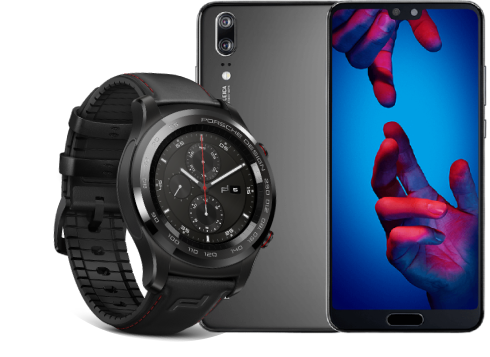
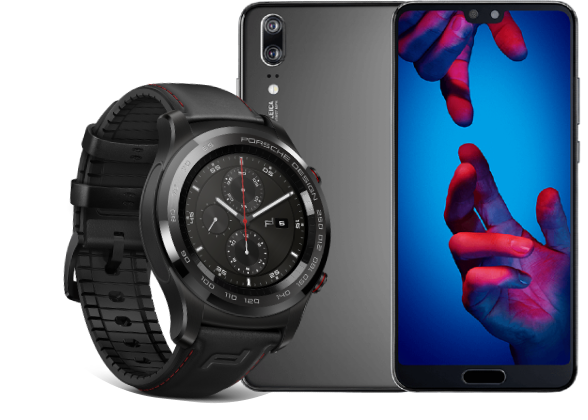
att

diff --git a/index.html b/index.html
@@ -24,8 +24,16 @@
 
     <link rel="stylesheet" href="css/style.css" />
 </head>
-
-
+<!--
+<svg>
+    <defs>
+        <clipPath id="svg-path">
+            <path d="M0 170.5C0 76.3354 76.3355 0 170.5 0L341 0L341 403.5C341 497.665 264.665 574 170.5 574H0L0 170.5Z"
+                fill="#DADADA">
+        </clipPath>
+    </defs>
+</svg>
+--->
 
 <body>
     <div class="circle"></div>
@@ -46,21 +54,40 @@
 
         <main>
             <section class="text">
-                <h1>Lancamento <span>Huawei</span> P20 Pro e <span>Huawei</span> Watch:<br>
-                    Uma dupla Revolucionária!</h1>
+                <h1>
+                    Lancamento <span>Huawei</span> P20 Pro e <span>Huawei</span> Watch:<br>
+                    Uma dupla Revolucionária!
+                </h1>
 
-                <p>Bem-vindo à era da tecnologia inovadora com o lançamento </br>
-                    empolgante do Huawei P20 Pro e do elegante Huawei Watch.</br>
-                    Essa poderosa combinação redefine a experiência tecnológica,</br>
-                    unindo o desempenho excepcional de um smartphone premium</br>
-                    e a sofisticação de um smartwatch de última geração.</p>
+                <p>
+                    Bem-vindo à era da tecnologia inovadora com o lançamento
+                    empolgante do Huawei P20 Pro e do elegante Huawei Watch.<br>
+                    Essa poderosa combinação redefine a experiência tecnológica,
+                    unindo o desempenho excepcional de um smartphone premium
+                    e a sofisticação de um smartwatch de última geração.
+                </p>
+
+                <p>
+                    O novo smartphone Huawei impressiona desde o primeiro olhar, com sua tela de alta resolução que<br>
+                    se estende de borda a borda, proporcionando uma experiência visual imersiva e envolvente.<br>
+                    Equipado com a mais recente tecnologia de processamento, oferece desempenho rápido e<br>
+                    eficiente para lidar com todas as tarefas, desde multitarefa intensiva até jogos de última geração.
+                </p>
+
+                <p>
+                    O smartwatch Huawei, por sua vez, é mais do que um simples acessório tecnológico.<br>
+                    Com um design elegante e funcionalidades inteligentes, ele oferece monitoramento<br>
+                    avançado de saúde, rastreamento de atividades físicas e uma variedade derecursos<br>
+                    personalizáveis. A integração perfeita entre o smartphone e o smartwatch Huawei<br>
+                    proporciona uma experiência totalmente conectada, permitindo que os usuários<br>
+                    gerenciem suas vidas de maneira mais eficiente e estejam sempre um passo à frente.
+                </p>
 
                 <button>Saiba mais</button>
             </section>
 
-
+            <img src="img/back.svg" alt="background de cinza" class="back-cinza">
             <img src="img/Img products.png" alt="imagem do relogio da Huawei" class="watch">
-
         </main>
 
 

diff --git a/css/style.css b/css/style.css
@@ -3,10 +3,30 @@ body {
   font-family: "Open Sans", sans-serif;
   min-height: 100vh;
 }
+/**
+svg {
+  background: #dadada;
+  position: absolute;
+  top: 0px;
+  left: 0px;
+  width: 100%;
+  height: 100%;
+  clip-path: url("#svg-path");
+  z-index: -1;
+}
+*/
+
+.back-cinza {
+  position: fixed;
+  height: 90.5%;
+  right: 200px;
+  bottom: 0px;
+  z-index: -1;
+}
 
 .page {
   border: 1px solid blue;
-  width: 1200px;
+  width: 1500px;
   margin: 0px auto;
   padding: 60px;
 }
@@ -103,7 +123,7 @@ footer {
   line-height: 20px;
 
   text-align: center;
-  margin-top: 150px;
+  margin-top: 190px;
 
   color: #7d7987;
 }
